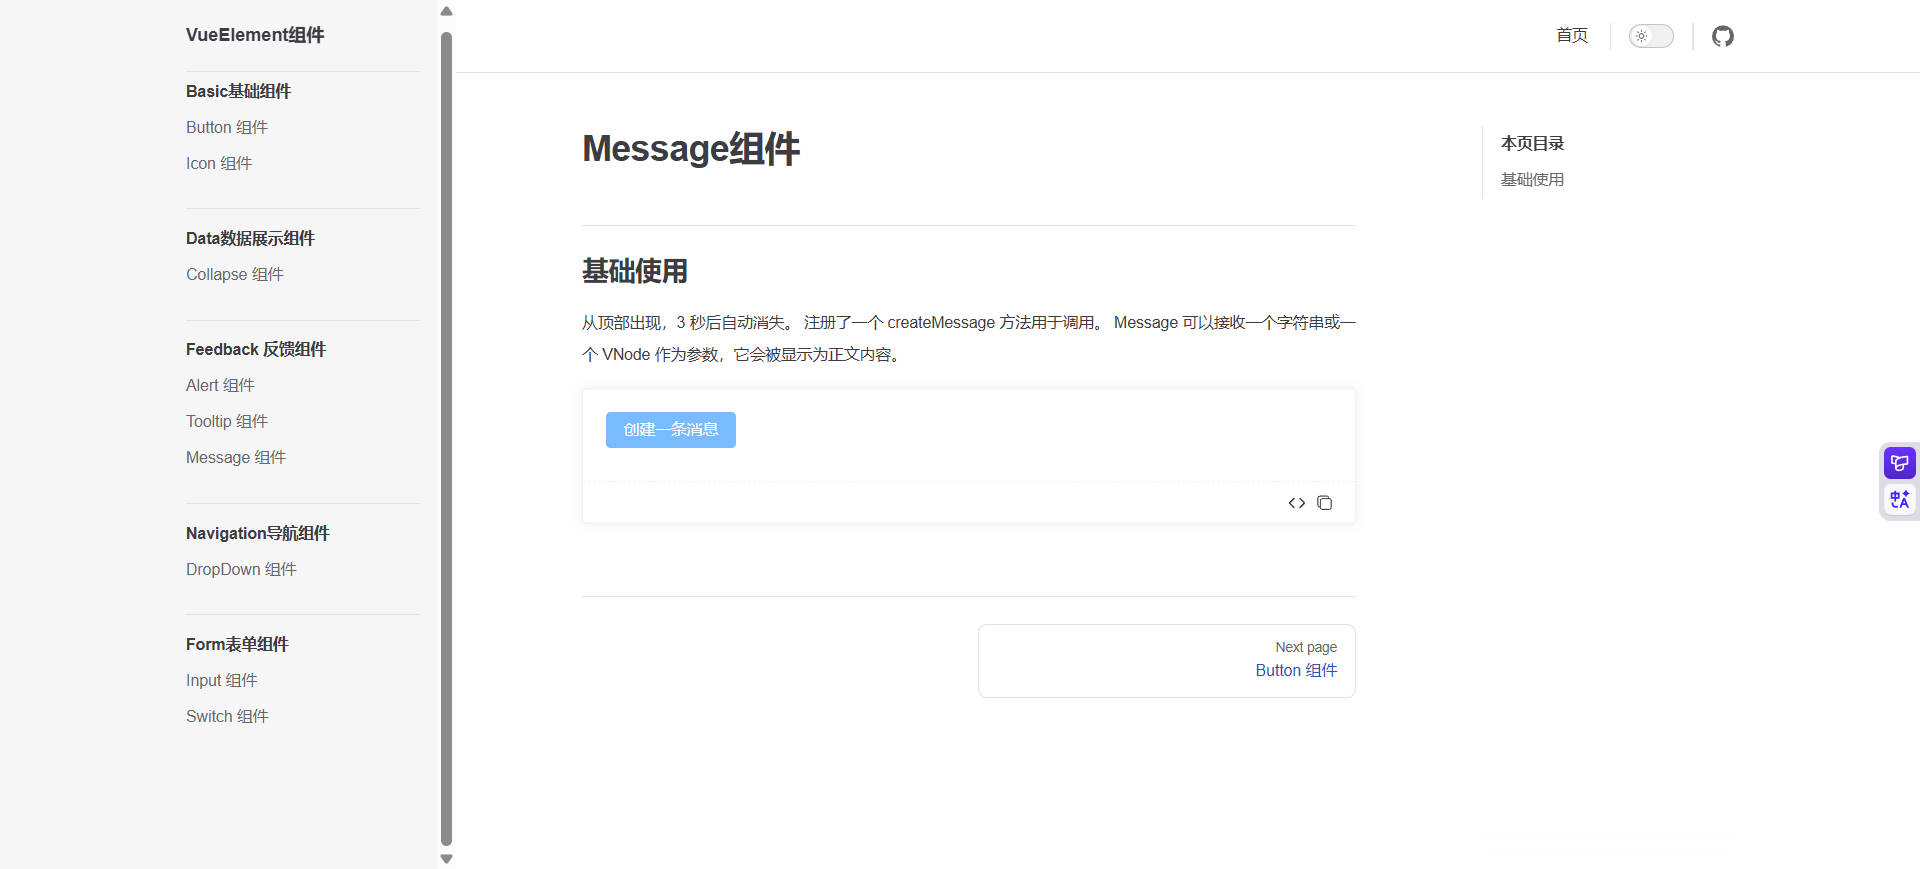
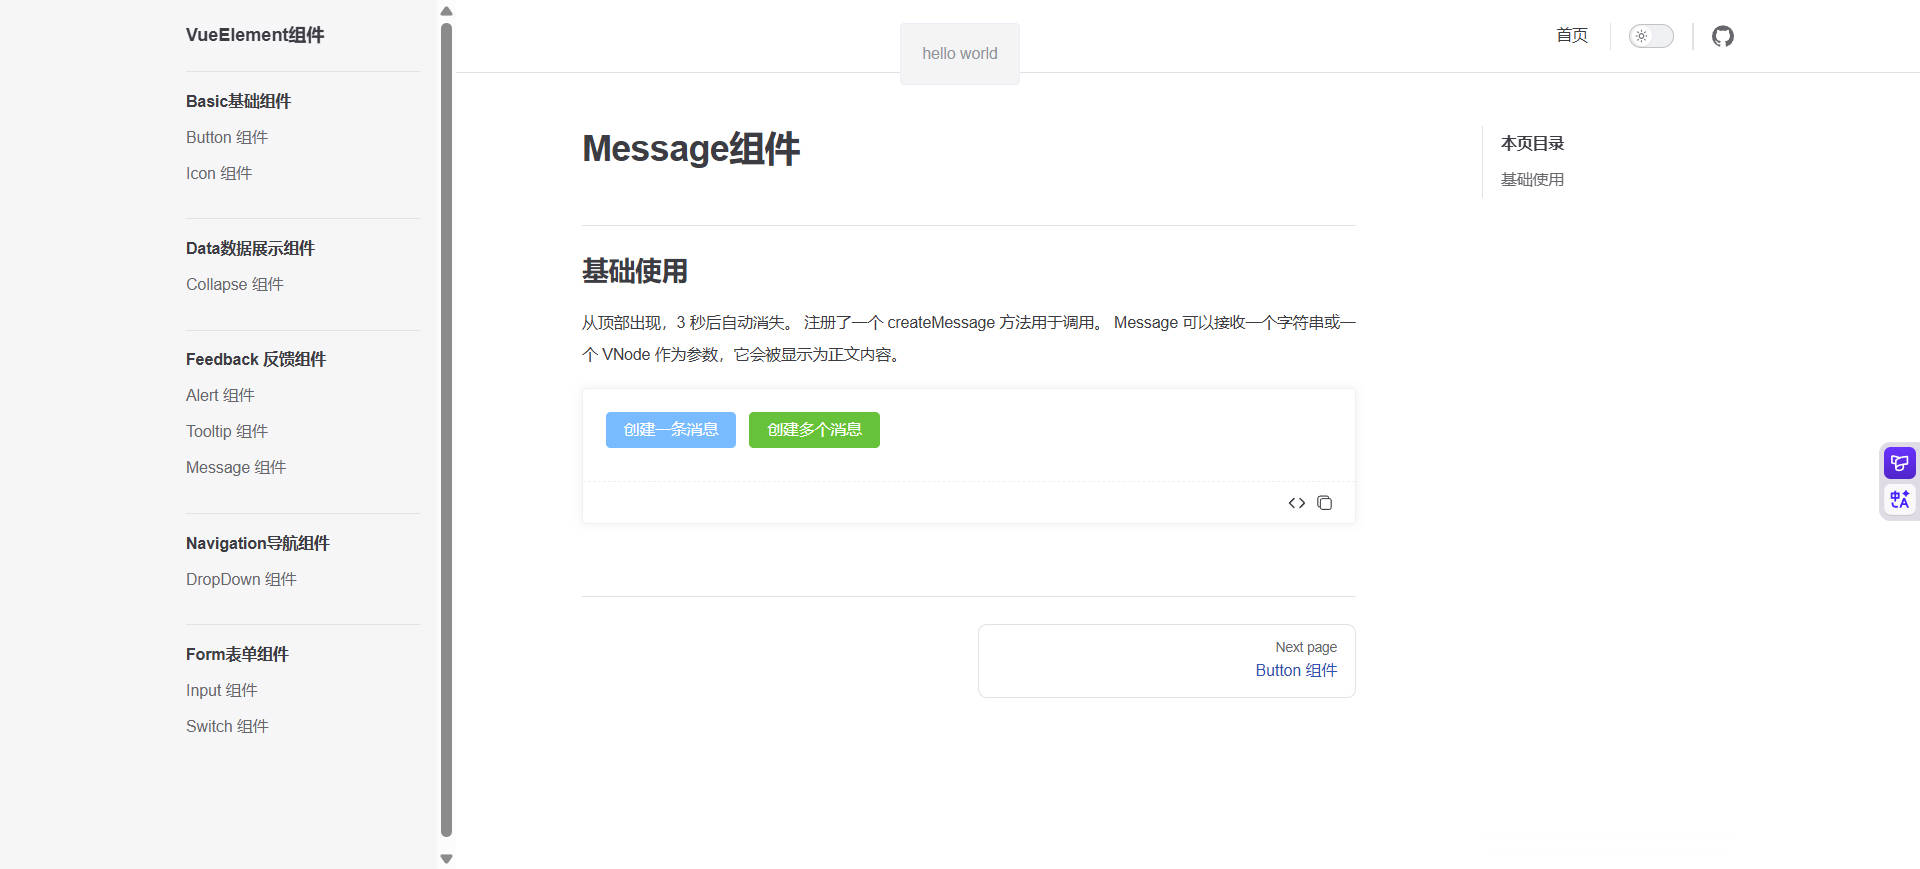
补充button事件、修复message显示问题

diff --git a/src/components/Message/method.ts b/src/components/Message/method.ts
@@ -8,63 +8,91 @@ let seed = 1
 const instances: MessageContext[] = shallowReactive([])
 
 export const createMessage = (props: CreateMessageProps) => {
-  const { nextZIndex } = useZIndex()
-  const id = `message_${seed++}`
-  // 组件卸载
-  const destory = () => {
-    // 删除数组中的实例
-    const index = instances.findIndex((instance) => instance.id === id)
-    if (index === -1) {
-      return
-    }
-    instances.splice(index, 1)
-    // 销毁组件
-    render(null, container)
-  }
-  // 手动销毁
-  const manualDestroy = () => {
-    const instance = instances.find((instance) => instance.id === id)
-    if (instance) {
-      instance.vm.exposed!.isVisible.value = false
-    }
-  }
-  const newProps = {
-    ...props,
-    id,
-    // zIndex: 2000,
-    zIndex: nextZIndex(),
-    onDestroy: destory,
-  }
-  const container = document.createElement('div')
-  // const vnode = h(Message, props)
-  const vnode = h(Message, newProps)
-  render(vnode, container)
-  // 只将container的第一个子元素添加到body中，!排除null和undefined情况
-  document.body.appendChild(container.firstElementChild!)
+  try {
+    const { nextZIndex } = useZIndex()
+    const id = `message_${seed++}`
 
-  const instance = {
-    id,
-    vnode,
-    props: newProps,
-    destroy: manualDestroy,
-    vm: vnode.component!,
+    // 组件卸载
+    const destory = () => {
+      // 删除数组中的实例
+      const index = instances.findIndex((instance) => instance.id === id)
+      if (index === -1) {
+        return
+      }
+      instances.splice(index, 1)
+      // 销毁组件
+      render(null, container)
+      // 移除 DOM 元素
+      if (container.firstElementChild && container.firstElementChild.parentNode) {
+        container.firstElementChild.parentNode.removeChild(container.firstElementChild)
+      }
+    }
+
+    // 手动销毁
+    const manualDestroy = () => {
+      const instance = instances.find((instance) => instance.id === id)
+      if (instance) {
+        instance.vm.exposed!.isVisible.value = false
+      }
+    }
+
+    const newProps = {
+      ...props,
+      id,
+      zIndex: nextZIndex(),
+      onDestroy: destory,
+    }
+
+    const container = document.createElement('div')
+    const vnode = h(Message, newProps)
+
+    render(vnode, container)
+
+    // 只将container的第一个子元素添加到body中，!排除null和undefined情况
+    const firstElement = container.firstElementChild
+    if (firstElement) {
+      document.body.appendChild(firstElement)
+    } else {
+      throw new Error('Failed to create message element')
+    }
+
+    const instance = {
+      id,
+      vnode,
+      props: newProps,
+      destroy: manualDestroy,
+      vm: vnode.component!,
+    }
+    instances.push(instance)
+    return instance
+  } catch (error) {
+    throw error
   }
-  instances.push(instance)
-  return instance
 }
 
 export const getLastInstance = () => {
   // 最后一项
   return instances.at(-1)
 }
-// 获取最后一项组件实例底部的偏移位置
+
+// 获取当前消息应该显示的位置
 export const getLastBottomOffset = (id: string) => {
-  // return 0
   const idx = instances.findIndex((instance) => instance.id === id)
   if (idx <= 0) {
     return 0
   } else {
-    const prev = instances[idx - 1]
-    return prev.vm.exposed!.bottomOffset.value
+    // 计算前面所有实例的总高度
+    let totalHeight = 0
+    for (let i = 0; i < idx; i++) {
+      const prev = instances[i]
+      if (prev && prev.vm.exposed) {
+        // 获取每个消息的高度
+        const messageHeight = prev.vm.exposed.height?.value || 0
+        totalHeight += messageHeight
+        // 添加间距
+        totalHeight += 16 // 16px 间距
+      }
+    }
+    return totalHeight
   }
 }

diff --git a/docs/demo/Message/Basic.vue b/docs/demo/Message/Basic.vue
@@ -2,19 +2,42 @@
 <template>
   <div class="basic block">
     <VkButton type="primary" @click="open"> 创建一条消息 </VkButton>
+    <VkButton type="success" @click="openMultiple" style="margin-left: 10px">
+      创建多个消息
+    </VkButton>
   </div>
 </template>
 
 <script setup lang="ts">
 import VkButton from '@/components/Button/Button.vue'
+import { createMessage } from '@/components/Message/method'
 
 const open = () => {
-  // 使用全局挂载的方法
-  if (typeof window !== 'undefined' && (window as any).$createMessage) {
-    ;(window as any).$createMessage({ message: 'hello world' })
-  } else {
-    // 降级方案
-    alert('hello world')
+  try {
+    createMessage({ message: 'hello world' })
+  } catch (error) {
+    console.error('Error creating message:', error)
+  }
+}
+
+const openMultiple = () => {
+  try {
+    // 创建多个不同类型的消息，间隔更长便于观察
+    createMessage({ message: '这是第一条消息 - 信息类型', type: 'info' })
+
+    setTimeout(() => {
+      createMessage({ message: '这是第二条消息 - 成功类型', type: 'success' })
+    }, 500)
+
+    setTimeout(() => {
+      createMessage({ message: '这是第三条消息 - 警告类型', type: 'warning' })
+    }, 1000)
+
+    setTimeout(() => {
+      createMessage({ message: '这是第四条消息 - 危险类型', type: 'danger' })
+    }, 1500)
+  } catch (error) {
+    console.error('Error creating multiple messages:', error)
   }
 }
 </script>

diff --git a/src/components/Button/Button.vue b/src/components/Button/Button.vue
@@ -16,30 +16,43 @@
     :autofocus="autofocus"
     :type="nativeType"
     ref="_ref"
+    @click="handleClick"
   >
-    <Icon v-if="loading" icon="spinner" spin></Icon>
-    <Icon v-if="icon" :icon="icon"></Icon>
+    <Icon v-if="loading" icon="spinner" type="info" color="currentColor"></Icon>
+    <Icon v-if="icon" :icon="icon" type="info" color="currentColor"></Icon>
     <slot></slot>
   </button>
 </template>
 
 <script setup lang="ts">
 import { ref } from 'vue'
-// import { buttonProps } from './types'
 import type { ButtonProps } from './types'
 import Icon from '../Icon/Icon.vue'
 
 defineOptions({
-  name: 'VKButton',  // 配置组件名称
-  inheritAttrs: false,  // 禁止组件根节点自动继承父组件属性
+  name: 'VKButton', // 配置组件名称
+  inheritAttrs: false, // 禁止组件根节点自动继承父组件属性
 })
-// 为defineProps中的props设置默认值
-withDefaults(defineProps<ButtonProps>(), {
+
+const props = withDefaults(defineProps<ButtonProps>(), {
   nativeType: 'button',
 })
 
+const emit = defineEmits<{
+  click: [event: MouseEvent]
+}>()
+
 // 将button实例暴露出去
 const _ref = ref<HTMLButtonElement>()
+
+// 处理点击事件
+const handleClick = (event: MouseEvent) => {
+  if (props.disabled || props.loading) {
+    return
+  }
+  emit('click', event)
+}
+
 defineExpose({
   ref: _ref,
 })

diff --git a/src/components/Message/Message.vue b/src/components/Message/Message.vue
@@ -42,7 +42,7 @@ defineOptions({
 
 const props = withDefaults(defineProps<MessageProps>(), {
   type: 'info',
-  duration: 3000,
+  duration: 3000, // 改为 3 秒
   offset: 20,
   transitionName: 'fade-up',
 })
@@ -61,7 +61,8 @@ const lastOffset = computed(() => {
 
 // 这个元素的top
 const topOffset = computed(() => {
-  return props.offset + lastOffset.value
+  const offset = props.offset + lastOffset.value
+  return offset
 })
 
 // 这个元素为下一个元素预留的 offset，也就是它最底端的 bottom 的值
@@ -105,8 +106,10 @@ onMounted(async () => {
 
   // 等待DOM渲染完成，拿到最新height
   await nextTick()
+  await nextTick() // 再等一个 tick 确保完全渲染
   if (messageRef.value) {
-    height.value = messageRef.value.getBoundingClientRect().height
+    const rect = messageRef.value.getBoundingClientRect()
+    height.value = rect.height
   }
 })
 
@@ -126,7 +129,8 @@ function destroyComponent() {
 
 function updateComponent() {
   if (messageRef.value) {
-    height.value = messageRef.value.getBoundingClientRect().height
+    const rect = messageRef.value.getBoundingClientRect()
+    height.value = rect.height
   }
 }
 
@@ -146,5 +150,6 @@ onMounted(() => {
 defineExpose({
   bottomOffset,
   isVisible,
+  height, // 暴露 height 属性
 })
 </script>

diff --git a/docs/.vitepress/theme/index.ts b/docs/.vitepress/theme/index.ts
@@ -8,23 +8,11 @@ import { library } from '@fortawesome/fontawesome-svg-core'
 import { fas } from '@fortawesome/free-solid-svg-icons'
 // 扩展默认主题
 import './custom.css'
-// 导入组件
-import Message from '../../../src/components/Message/Message.vue'
-import { createMessage } from '../../../src/components/Message/method'
-import Button from '../../../src/components/Button/Button.vue'
 
 library.add(fas)
 export default {
   ...DefaultTheme,
   enhanceApp({ app }) {
     app.component('demo-preview', ElementPlusContainer)
-    app.component('VkMessage', Message)
-    app.component('VkButton', Button)
-    // 全局挂载 createMessage 方法
-    app.config.globalProperties.$createMessage = createMessage
-    // 也挂载到 window 对象上，方便在 demo 中使用
-    if (typeof window !== 'undefined') {
-      ;(window as any).$createMessage = createMessage
-    }
   },
 }

diff --git a/src/components/Message/style.css b/src/components/Message/style.css
@@ -22,7 +22,12 @@
   padding: var(--vk-message-padding);
   display: flex;
   align-items: center;
-  transition: top var(--vk-transition-duration), opacity var(--vk-transition-duration), transform var(--vk-transition-duration);
+  transition:
+    top var(--vk-transition-duration),
+    opacity var(--vk-transition-duration),
+    transform var(--vk-transition-duration);
+  z-index: 9999;
+  pointer-events: auto;
   .vk-message__content {
     color: var(--vk-message-text-color);
     overflow-wrap: anywhere;
@@ -38,7 +43,7 @@
     cursor: pointer;
   }
 }
-@each $val in info,success,warning,danger {
+@each $val in info, success, warning, danger {
   .vk-message--$(val) {
     --vk-message-bg-color: var(--vk-color-$(val)-light-9);
     --vk-message-border-color: var(--vk-color-$(val)-light-8);

diff --git a/src/App.vue b/src/App.vue
@@ -1,19 +1,20 @@
 <script setup lang="ts">
-// import VNode from './VNode'
-import VNode from '@/VNode.tsx'
-
-import { createMessage } from '@/components/Message/method'
-import Button from '@/components/Button/Button.vue'
-
-const open = () => {
-  createMessage({ message: 'hello world' })
-}
+// import Button from '@/components/Button/Button.vue'
 </script>
 
 <template>
   <div class="app">
-    基于 Vue3开发的仿照element-plus的UI组件库
-    <VNode msg="hello world " />
-    <Button @click="open">打开消息提示</Button>
+    <h1>基于 Vue3开发的仿照element-plus的UI组件库</h1>
   </div>
 </template>
+
+<style>
+.app {
+  display: flex;
+  justify-content: center;
+  align-items: center;
+  /* width: 100vw; */
+  height: 100vh;
+  padding: 20px;
+}
+</style>
